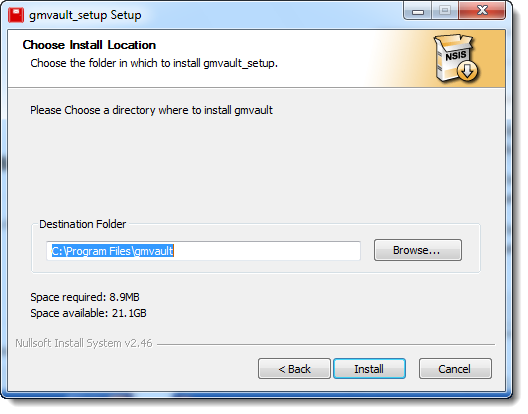
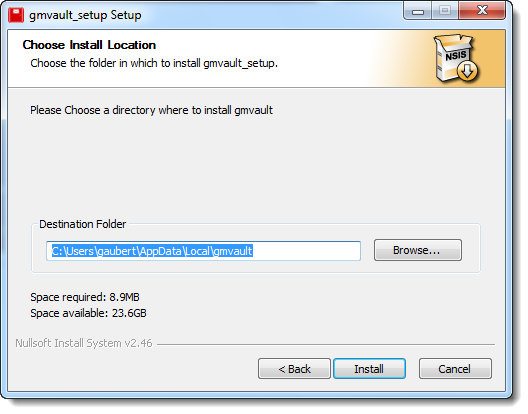
update install.html page

diff --git a/install.html b/install.html
@@ -106,7 +106,8 @@
          <a name="win_install"></a><div class="page-header">
             <h2>Windows Installation</h2>
 		 </div>
-           <p>Double click on <strong>gmvault_setup.exe</strong> to launch it. You should see the follow screens when installing:</p>
+           <p>Double click on <strong>gmvault_setup.exe</strong> to launch it. You should see the follow screens when installing:
+           </p>
 			 <ul class="thumbnails">
 				<li class="span5">
 				  <div class="thumbnail well">
@@ -138,9 +139,9 @@
 			 </ul> 
 
 			 <p>Note that Gmvault is installed with standard <strong>user privileges</strong>. 
-             </br>This means that you will not be able to install it in area necessitating Admin privileges like for instance C:\Program Files. 
-             </br>The Gmvault installer should have installed a Gmvault-shell from where you can easily launch gmvault.exe.
-				<br> Gmvault-shell can be launched via a Desktop shortcut. Alternatively, you can also find Gmvault in the Windows start-up menu.</p>
+             </br>This means that you will not be able to install it in areas necessitating <stong>Admin privileges</strong> like for instance C:\Program Files. 
+             </br></br>The Gmvault installer should have now installed a Gmvault-shell from where you can easily launch gmvault.bat.
+				<br> Gmvault-shell can be launched via a Desktop shortcut. Alternatively, you can also find it in the Gmvault folder of the Windows start-up menu.</p>
                          <p>Double click on the Desktop shortcut to launch the Gmvault-shell that will set all variables in order to easily operate Gmvault.</p>
 
                          <div class="span10 thumbnail well">
@@ -157,25 +158,23 @@
 
                          </br>Go to <a href="in_depth.html">In Depth</a> to understand all the Gmvault capabilities.</p>
          <div class="page-header">
-            <a name="mac_install"></a><h2>Mac OSX Installation</h2>
+            <a name="mac_install"></a><h2>Mac OSX Installation</h2></div>
 			<p>Download and untar the Mac OSX binary tarball.</br>Go to the GMVAULT_HOME/bin dir to launch Gmvault.</p>
             <p><pre>$ tar zxvf gmvault-v1.5-beta-macosx-intel.tar.gz
 $ cd gmvault-v1.5-beta/bin
 $./gmvault sync myuser@gmail.com </pre>
-The current Mac OS X distribution has been tested with OSX 10.7 and 10.6. If you have older Intel MAC OSX version try to use the binary distribution. Please go to the <a href="report_pb.html">Report a problem page</a> to signal any issues. Another alternative is to download and install the source distribution or to install Gmvault from Pypi.
+The current Mac OS X distribution has been tested with OSX 10.7 and 10.6. If you have older Intel MAC OSX version try to use this binary distribution. Please go to the <a href="report_pb.html">Report a problem page</a> to signal any issues. Another alternative is to download and install the source distribution or to install Gmvault from Pypi.
 </p>
-	 </div>
          <div class="page-header">
-            <a name="lin_install"></a><h2>Linux Installation</h2>
-                   <p>On Linux, it is recommended to install Gmvault using the source distribution or Pypi. There is an experimental 64bits binary tarball distribution. If you encounter a problem please report it <a href="report_pb.html">here</a>.
-			<p>Download and untar the binary tarball for Linux 64bits.</br>Go to the GMVAULT_HOME/bin dir to launch Gmvault.</p>
+            <a name="lin_install"></a><h2>Linux Installation</h2></div>
+            <p>On Linux, it is recommended to install Gmvault using the source distribution or Pypi. There is an experimental 64bits binary tarball distribution. If you encounter a problem please report it <a href="report_pb.html">here</a>.
+			Download and untar the binary tarball for Linux 64bits.</br>Go to the GMVAULT_HOME/bin dir to launch Gmvault.</p>
             <p><pre>$ tar zxvf gmvault-v1.5-beta-linux-i686.tar.gz
-$ cd gmvault-v1.5-beta/bin</pre></p>
-$ ./gmvault sync myuser@gmail.com 
-	 </div>
+$ cd gmvault-v1.5-beta/bin
+$ ./gmvault sync myuser@gmail.com</pre></p>
          <div class="page-header">
-            <a name="py_install"></a><h2>Python Installation from Pypi</h2>
-			<p>It is also possible to install Gmvault using the standard Python package installation method from Pypi. This is working for all plateforms.<br/>
+            <a name="py_install"></a><h2>Python Installation from Pypi</h2></div>
+			<p>It is also possible to install Gmvault using the standard Python package installation method from Pypi. This is working for all platforms.<br/>
                You would need to have the <a href="http://bit.ly/easy_install">setup tools</a> or <a href="http://www.pip-installer.org/en/latest/index.html">pip</a> installed in your Python distribution.
                I would also recommend using gmvault in a <a href="http://pypi.python.org/pypi/virtualenv">virtualenv</a> isolated sandbox.<br/>
                Below is described an installation under a virtualenv sandbox. 
@@ -228,6 +227,51 @@ Successfully installed gdata gmvault IMAPClient Logbook
 Cleaning up...
 $
 </pre>Alternatively to pip, easy_install could also be used but we recommend using pip.</p>
+         		<div class="page-header">
+            <h2>Python Source Installation</h2></div>
+            <p>The Source distribution is a standard python distribution installation. It is very similar to the installation from Pypi and working on all platforms.
+            </br>It is also recommended to use Gmvault within a virtualenv (see <a href="http://pypi.python.org/pypi/virtualenv">here</a> for info). Untar the downloaded source distribution and run:
+            <pre>$> cd gmvault-1.5-beta
+$> ~/virtualenv-test/bin/python setup.py install
+PATH = ./src/gmv/gmv_cmd.py
+
+1.5-beta
+Gmvault version = 1.5-beta
+
+running install
+running bdist_egg
+running egg_info
+writing requirements to gmvault.egg-info/requires.txt
+writing gmvault.egg-info/PKG-INFO
+writing top-level names to gmvault.egg-info/top_level.txt
+writing dependency_links to gmvault.egg-info/dependency_links.txt
+reading manifest file 'gmvault.egg-info/SOURCES.txt'
+reading manifest template 'MANIFEST.in'
+writing manifest file 'gmvault.egg-info/SOURCES.txt'
+installing library code to build/bdist.macosx-10.7-intel/egg
+....
+running build_scripts
+creating build/scripts-2.7
+copying ./etc/scripts/gmvault -> build/scripts-2.7
+...
+Installing gmvault script to /Users/xxxx/virtualenv-test/bin
+
+Installed /Users/xxxx/virtualenv-test/lib/python2.7/site-packages/gmvault-1.5_beta-py2.7.egg
+Processing dependencies for gmvault==1.5-beta
+Searching for gdata==2.0.17
+Reading http://pypi.python.org/simple/gdata/
+Reading http://code.google.com/p/gdata-python-client/
+Best match: gdata 2.0.17
+Downloading http://gdata-python-client.googlecode.com/files/gdata-2.0.17.zip
+Processing gdata-2.0.17.zip
+Running gdata-2.0.17/setup.py -q bdist_egg --dist-dir /var/folders/w3/kzry2_2537bbjd9_pwyjsnlw0000gn/T/easy_install-Zg1PBK/gdata-2.0.17/egg-dist-tmp-_kskLT
+zip_safe flag not set; analyzing archive contents...
+Adding gdata 2.0.17 to easy-install.pth file
+...
+Finished processing dependencies for gmvault==1.5-beta
+>$ </pre>
+Please report any problems using <a href="report_pb.html">"Report a problem"</a> page.
+
 	 </div>
       </div> <!-- span10 -->
 
